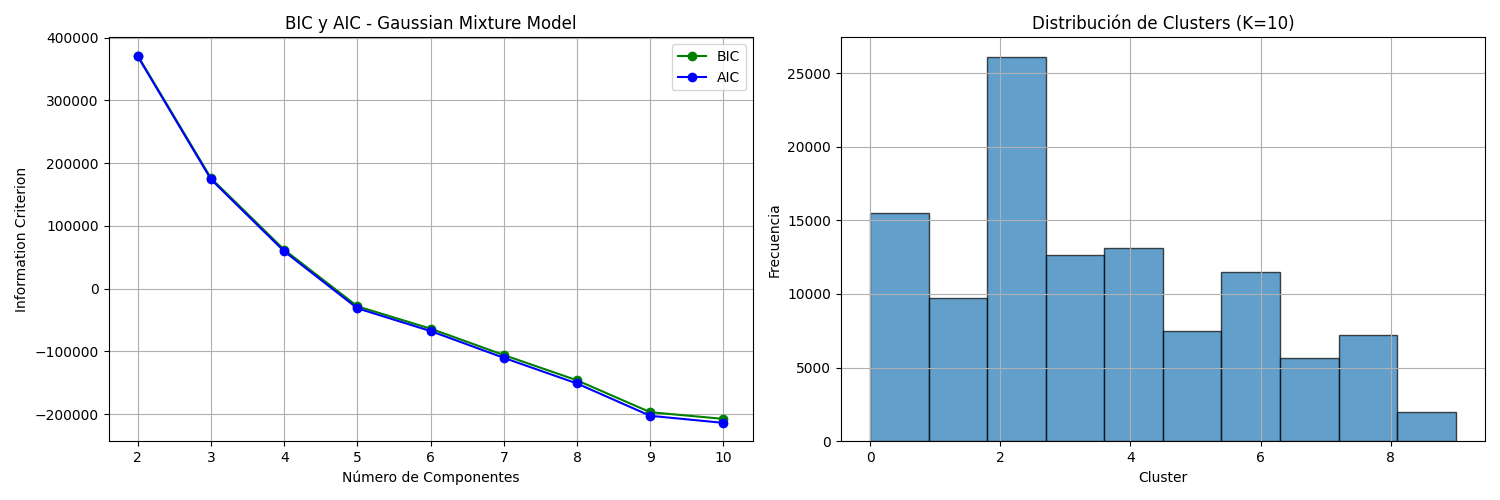
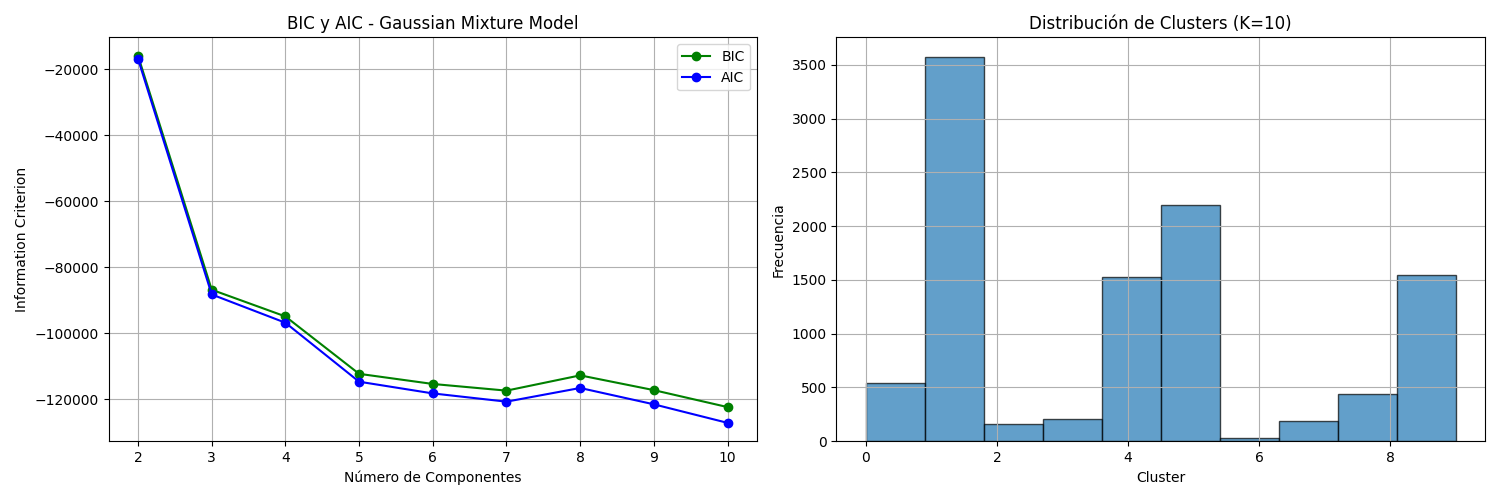
Clustering results

diff --git a/code/src/grouping_k.py b/code/src/grouping_k.py
@@ -60,13 +60,21 @@ class ClusteringHomicidios:
             'Pertenencia Grupal',
             'Mecanismo Causal',
             'Presunto Agresor',
-            'Ancestro Racial',
-            'Municipio del hecho DANE',
             'Departamento del hecho DANE',
             'Actividad Durante el Hecho',
             'Diagnostico Topográfico de la Lesión',
             'Rango de Hora del Hecho X 3 Horas',
+            'Localidad del Hecho',
         ]
+        
+        print(f"Variables seleccionadas: {self.categorical_columns}")
+    
+        #Realizar el análisis solo a sexo masculino
+        # self.df = self.df[self.df['Sexo de la victima'] == 'Mujer']
+        
+        #Realizar análisis solo en Bogotá, es deci
+        self.df = self.df[self.df['Departamento del hecho DANE'] == 'Bogotá, D.C.']
+        print(f"Dimensiones del DataFrame original: {self.df.shape}")
         
         # Filtrar solo las columnas que existen en el DataFrame
         self.categorical_columns = [col for col in self.categorical_columns if col in self.df.columns]
@@ -76,16 +84,16 @@ class ClusteringHomicidios:
         # 2. Crear dataset solo con variables seleccionadas
         self.df_processed = self.df[self.categorical_columns].copy()
         
-        # 3. Limpiar datos faltantes y valores raros
-        for col in self.categorical_columns:
-            # Reemplazar valores con baja frecuencia por "Otros"
-            value_counts = self.df_processed[col].value_counts()
-            threshold = len(self.df_processed) * 0.01  # 1% del total
-            rare_values = value_counts[value_counts < threshold].index
-            self.df_processed[col] = self.df_processed[col].replace(rare_values, 'Otros')
+        # # 3. Limpiar datos faltantes y valores raros
+        # for col in self.categorical_columns:
+        #     # Reemplazar valores con baja frecuencia por "Otros"
+        #     value_counts = self.df_processed[col].value_counts()
+        #     threshold = len(self.df_processed) * 0.01  # 1% del total
+        #     rare_values = value_counts[value_counts < threshold].index
+        #     self.df_processed[col] = self.df_processed[col].replace(rare_values, 'Otros')
             
             # Manejar valores faltantes
-            self.df_processed[col] = self.df_processed[col].fillna('Sin información')
+           # self.df_processed[col] = self.df_processed[col].fillna('Sin información')
         
         # 4. Aplicar MCA para reducción de dimensionalidad
         print("\nAplicando MCA para reducción de dimensionalidad...")
@@ -228,15 +236,6 @@ class ClusteringHomicidios:
         plt.savefig(os.path.join(self.results_path, 'kmeans_mca_results.png'))
         # Cerrar figura
         plt.close()
-        # self.save_results("kmeans_mca", {
-        #     'clusters': best_clusters,
-        #     'k_optimal': best_k,
-        #     'silhouette_score': best_score,
-        #     'centroids': best_centroids,
-        #     'inertias': inertias,
-        #     'silhouette_scores': silhouette_scores,
-        #     'k_range': k_range
-        # })
         
         print(f"Mejor K: {best_k} con Silhouette Score: {best_score:.3f}")
         return best_clusters
@@ -543,7 +542,7 @@ class ClusteringHomicidios:
         self.algoritmo_1_kmodes()
         self.algoritmo_2_kmeans_mca()
         self.algoritmo_3_gaussian_mixture()
-        #self.algoritmo_4_dbscan_mca()
+        self.algoritmo_4_dbscan_mca()
         
         # 3. Evaluación comparativa
         metrics_df = self.evaluar_clustering()
